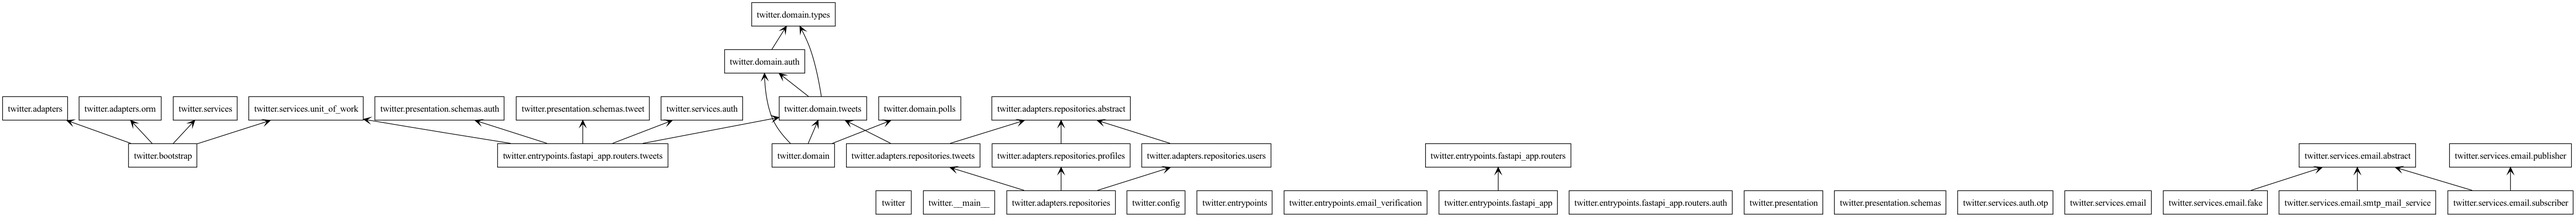
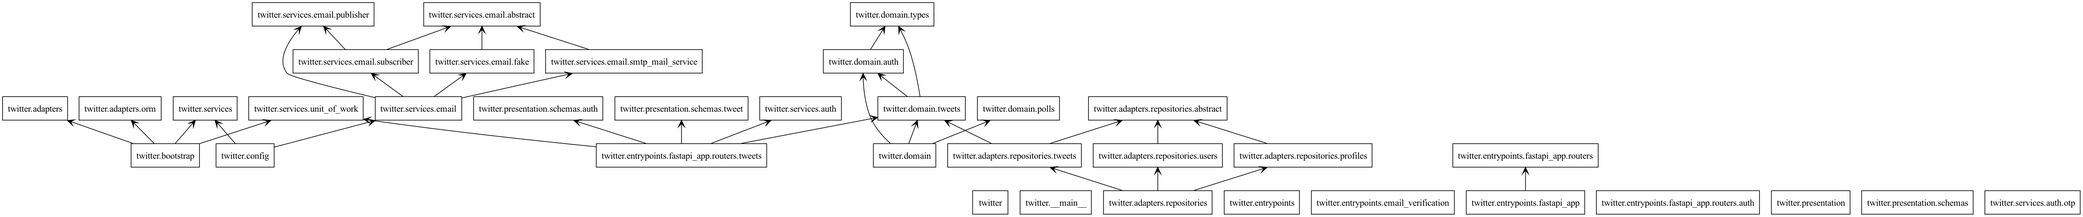
feat: add auth tests

diff --git a/tests/e2e/test_auth.py b/tests/e2e/test_auth.py
@@ -1,0 +1,46 @@
+import pytest
+
+from tests import base
+from twitter.domain import User
+from twitter.services.unit_of_work import SqlAlchemyUnitOfWork
+
+
+def test_registration():
+    with SqlAlchemyUnitOfWork() as uow:
+        initial_count = uow.session.query(User).count()
+        response = base.client.post(
+            '/auth/register',
+            json={
+                'email': 'nazar@gmail.com',
+                'first_name': 'Nazar',
+                'last_name': 'Ann',
+                'username': 'phoenix-marko',
+                'description': 'First Captain of WhiteBeard',
+                'password': 'qazxsw123'
+            }
+        )
+        assert response.status_code == 200
+    with SqlAlchemyUnitOfWork() as uow:
+        # Check user count increased
+        assert uow.session.query(User).count() == initial_count+1
+
+
+def test_login_not_activated_user():
+    response = base.client.post(
+        '/auth/login',
+        json={
+            'email': 'nazar@gmail.com',
+            'password': 'qazxsw123'
+        }
+    )
+    assert response.status_code == 400
+
+
+@pytest.mark.skip(reason='Need to get otp')
+def test_activate_user():
+    pass
+
+
+@pytest.mark.skip(reason='Need to implement prev test')
+def test_login_activated_user():
+    pass

diff --git a/twitter/entrypoints/fastapi_app/routers/auth.py b/twitter/entrypoints/fastapi_app/routers/auth.py
@@ -2,7 +2,7 @@ import json
 
 from fastapi import APIRouter, Depends, HTTPException, Response
 
-from ....config import REDIS_EMAIL_VER_CHANNEL, get_redis_uri
+from ....config import EMAIL_PUBLISHER, REDIS_EMAIL_VER_CHANNEL, get_redis_uri
 from ....domain.auth import Profile, User
 from ....presentation.schemas.auth import (
     LoginSchema,
@@ -27,7 +27,7 @@ router = APIRouter(
     prefix='/auth',
     tags=['Authentification']
 )
-redis_publisher = RedisPublisher(*get_redis_uri())
+redis_publisher = EMAIL_PUBLISHER(*get_redis_uri())
 
 
 @router.post('/register')

diff --git a/twitter/services/email/publisher.py b/twitter/services/email/publisher.py
@@ -20,3 +20,14 @@ class RedisPublisher(AbstractPublisher, RedisAdapter):
     def publish(self, channel: str, message: Message):
         print('Publishing: ', message)
         self._redis_client.publish(channel, json.dumps(message))
+
+
+class FakePublisher(AbstractPublisher):
+
+    def __init__(self, *args, **kwargs):
+        pass
+
+    def publish(self, channel: str, message):
+        print(f'{channel=}')
+        print(f'{message=}')
+        return 'works'

diff --git a/twitter/config.py b/twitter/config.py
@@ -1,5 +1,7 @@
 import os
 
+from twitter.services import email
+
 SECRET_KEY = os.environ.get(
     'SECRET_KEY',
     'somehow_really_complicated_secret_key_with_signs_like:!@#$%^&*()-_=+'
@@ -17,6 +19,7 @@ REDIS_EMAIL_VER_CHANNEL = os.environ.get(
 OTP_KEY_EXPIRY_TIME = int(os.environ.get(
     'OTP_KEY_EXPIRY_TIME', 7200
 ))
+EMAIL_PUBLISHER = email.FakePublisher
 
 
 def get_postgres_uri():

diff --git a/twitter/services/email/__init__.py b/twitter/services/email/__init__.py
@@ -1,0 +1,12 @@
+from .fake import FakeMailService
+from .publisher import FakePublisher, RedisPublisher
+from .smtp_mail_service import SMTPMailService
+from .subscriber import RedisSubscriber
+
+__all__ = [
+    'FakeMailService',
+    'FakePublisher',
+    'RedisPublisher',
+    'SMTPMailService',
+    'RedisSubscriber'
+]

diff --git a/twitter/services/email/fake.py b/twitter/services/email/fake.py
@@ -3,6 +3,9 @@ from .abstract import AbstractMailService
 
 class FakeMailService(AbstractMailService):
 
+    def __init__(self, *args, **kwargs):
+        pass
+
     def send(self, message: str, receiver: str) -> bool:
         print(f'Receiver: {receiver}')
         print(f'Message: {message}')

diff --git a/tests/test_db_connection.py b/tests/test_db_connection.py
@@ -1,8 +1,9 @@
-import base
 from sqlalchemy.sql import text
 
 from twitter.adapters.orm import metadata
 from twitter.services.unit_of_work import SqlAlchemyUnitOfWork
+
+from . import base
 
 
 def test_db_connection():

diff --git a/tests/test_startup.py b/tests/test_startup.py
@@ -1,4 +1,4 @@
-from base import client
+from .base import client
 
 
 def test_startup():
